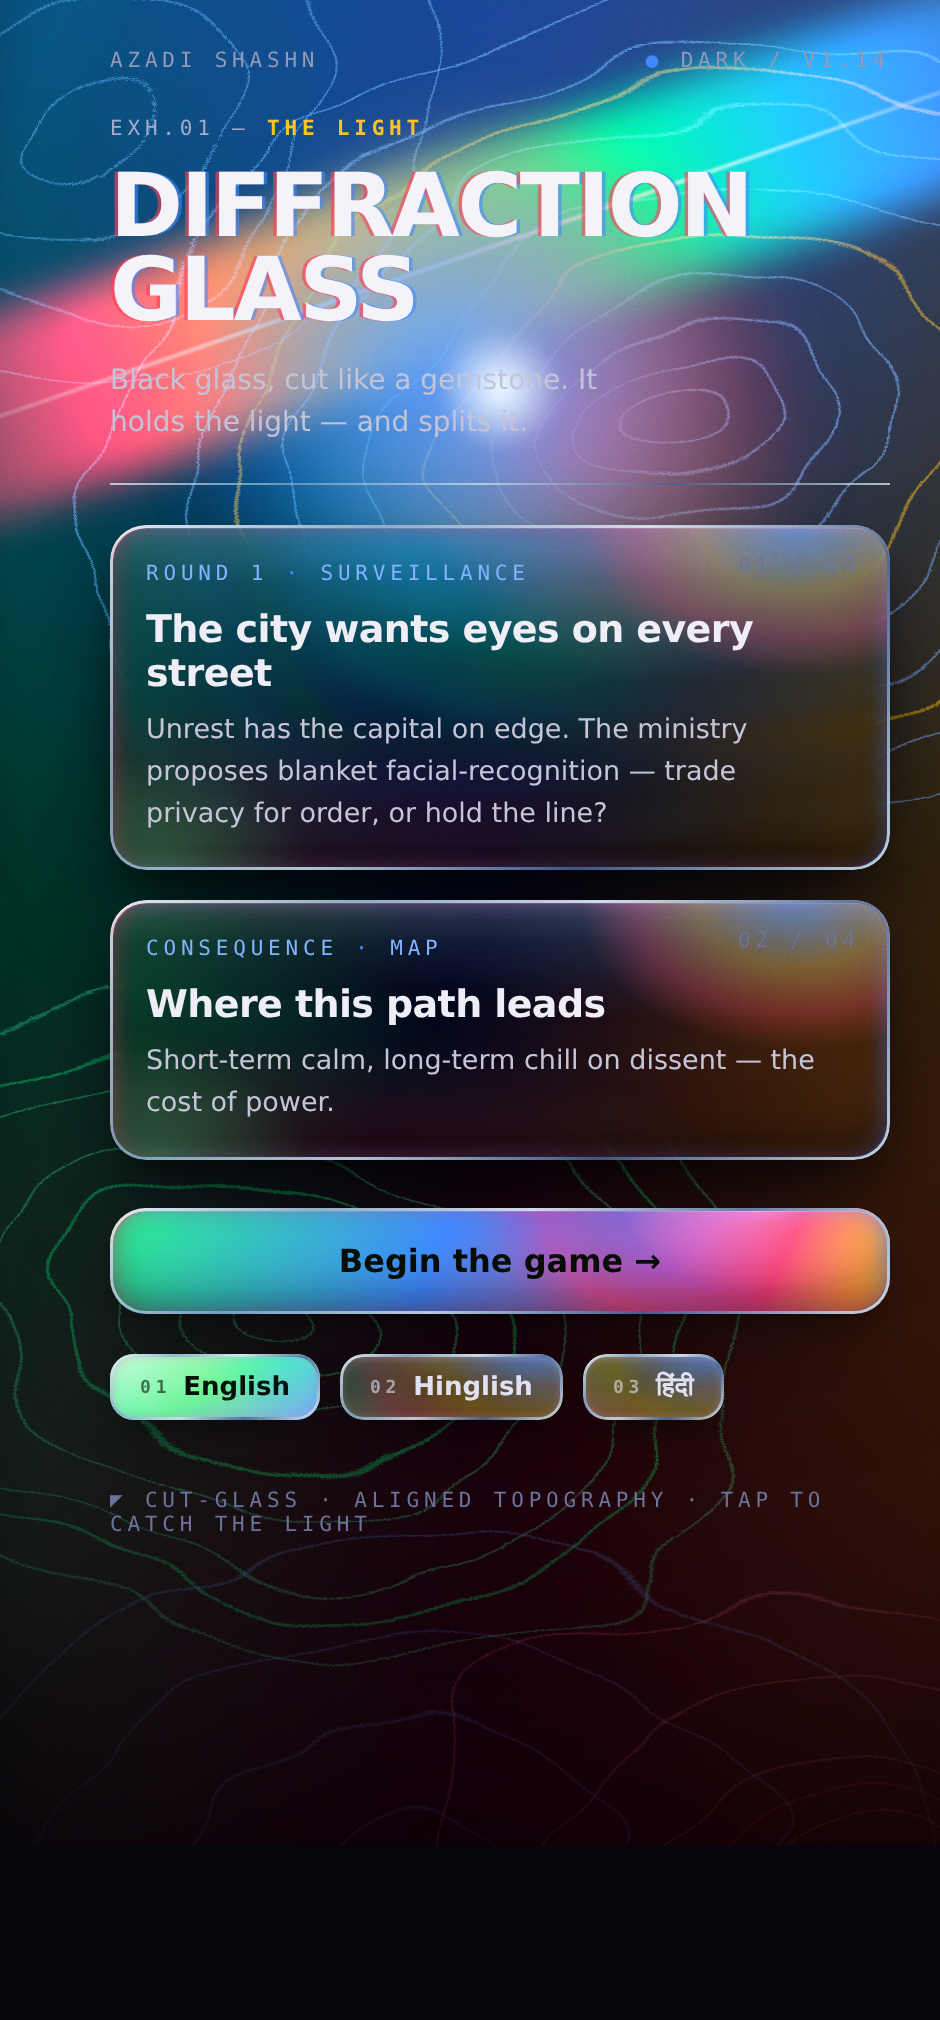
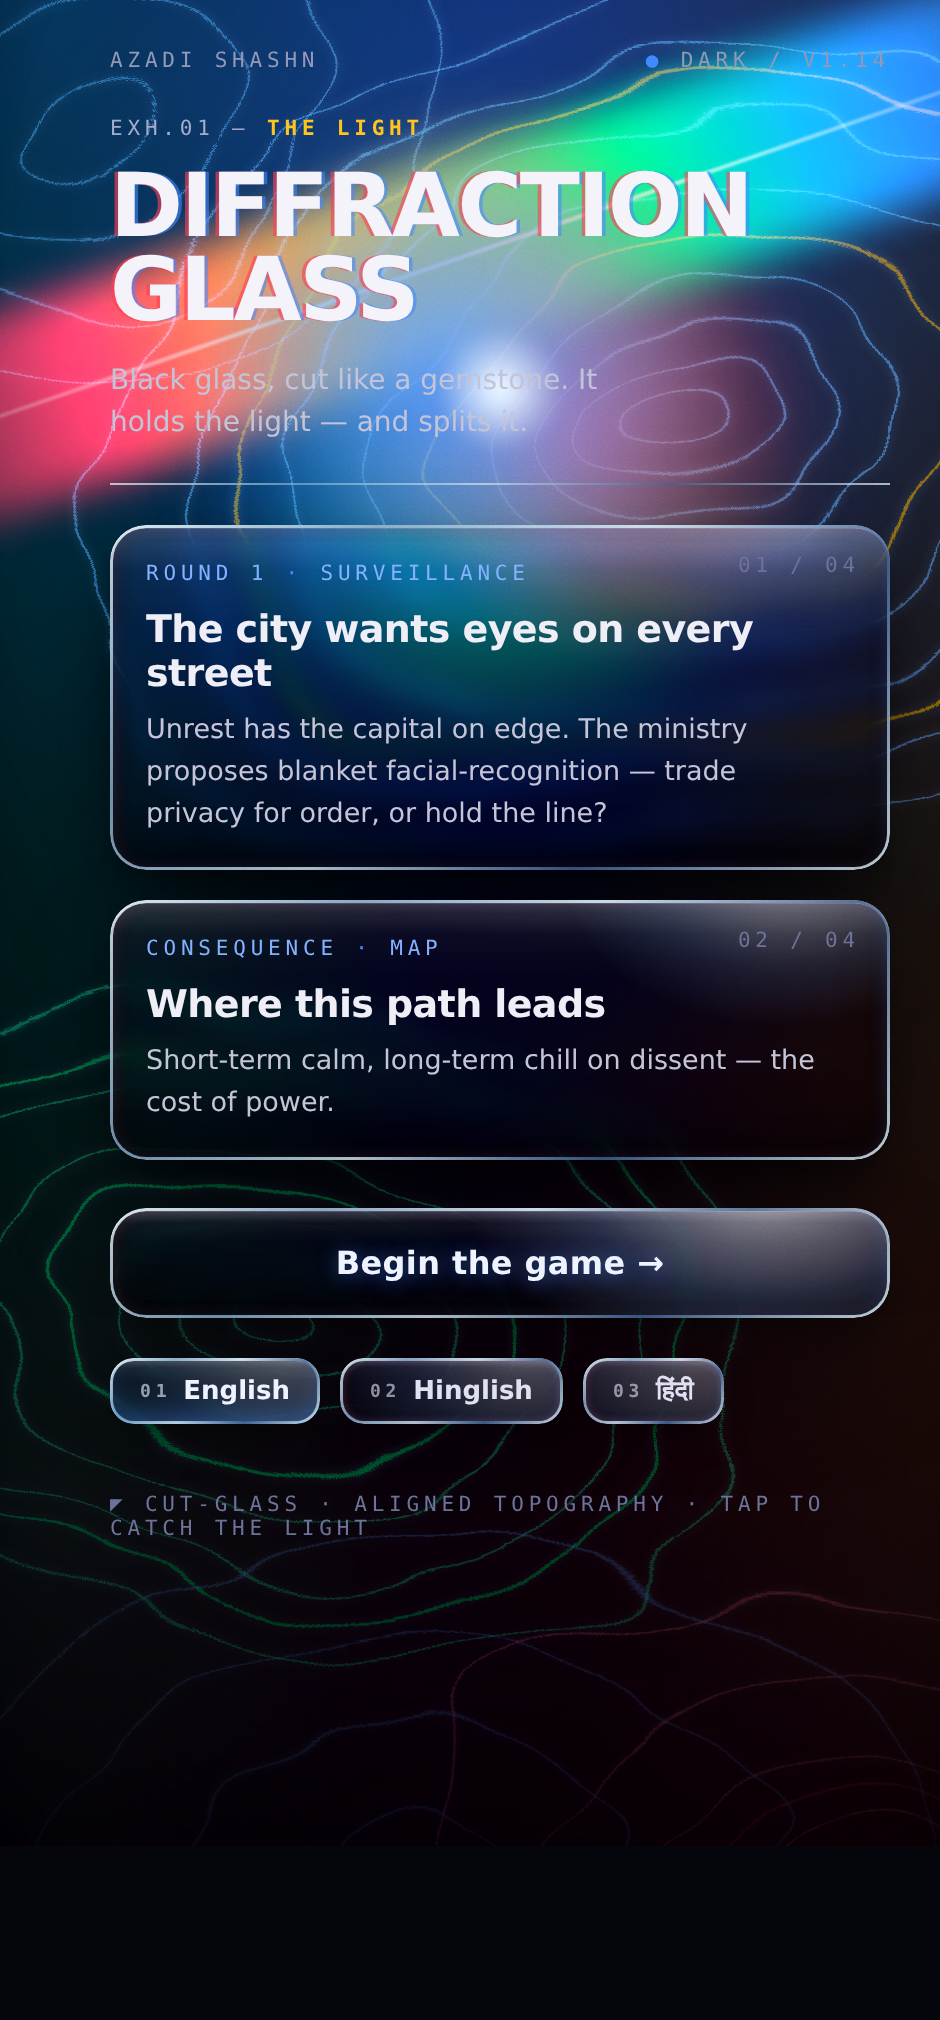
Diffraction preview: black glossy glass, colour only in the contour illustration
Feedback: coloured button fills fought the theme; wanted the contour illustration
to be the only vibrant highlight on black glossy glass buttons.
- Panels, CTA and chips are now black glossy glass: top-lit gloss sheen, hairline
  edge, deep near-black body, no ideology colour-fill wash. Text sits on true
  black glass; the CTA and chips use white type, the active chip a brighter gloss
  + blue under-glow instead of a colour fill.
- Colour now lives only in the contour illustration: contours carry a neon glow
  and read vibrantly through/across the panes as the highlight. Pulled the
  colour-wash mesh back so it is specifically the lines that pop, not a smear;
  panel backdrop tuned so the glowing contours punch through the black glass.

Design preview only — no app code changes.

Claude-Session: https://claude.ai/code/session_01FygEfTk57dQcPns1WQqt6E

diff --git a/design/diffraction-preview.html b/design/diffraction-preview.html
@@ -22,9 +22,9 @@
   .bg{position:fixed;inset:0;z-index:0;pointer-events:none;overflow:hidden;filter:saturate(1.35) contrast(1.06)}
   .base{position:absolute;inset:0;background:radial-gradient(120% 80% at 50% 2%, #0c1230 0%, #05081a 44%, #010209 100%)}
   .mesh{position:absolute;inset:-8%;background:
-      linear-gradient(180deg,rgba(63,134,255,.36),transparent 46%,rgba(255,59,82,.28)),
-      linear-gradient(90deg,rgba(42,240,138,.28),transparent 48%,rgba(255,194,30,.24));
-    filter:blur(30px);mix-blend-mode:screen}
+      linear-gradient(180deg,rgba(63,134,255,.22),transparent 48%,rgba(255,59,82,.16)),
+      linear-gradient(90deg,rgba(42,240,138,.16),transparent 50%,rgba(255,194,30,.14));
+    filter:blur(38px);mix-blend-mode:screen}
   /* laser beam — thin, sharp, bright core; the four ideology hues split across it */
   .streak{position:absolute;left:-30%;top:8%;width:160%;height:96px;transform:rotate(-19deg);mix-blend-mode:screen}
   .streak::before{content:"";position:absolute;inset:0;
@@ -39,6 +39,7 @@
     background:radial-gradient(circle at 38% 40%,rgba(63,134,255,.7),transparent 54%),radial-gradient(circle at 62% 52%,rgba(255,59,82,.6),transparent 54%),radial-gradient(circle at 52% 66%,rgba(42,240,138,.5),transparent 56%),radial-gradient(circle at 48% 30%,rgba(255,194,30,.46),transparent 52%);filter:blur(16px);mix-blend-mode:screen}
   /* topographic contour field — explicit, clearly visible; blended toward the light */
   .topo{position:absolute;inset:0;width:100%;height:100%;mix-blend-mode:screen;
+    filter:drop-shadow(0 0 2.4px rgba(150,190,255,.55)) saturate(1.25);
     -webkit-mask:radial-gradient(150% 108% at 50% 16%,#000,rgba(0,0,0,.86) 62%,rgba(0,0,0,.4) 100%);
             mask:radial-gradient(150% 108% at 50% 16%,#000,rgba(0,0,0,.86) 62%,rgba(0,0,0,.4) 100%)}
   /* depth: directional relief shades the terrain (lit near the orb, dark far) so
@@ -63,26 +64,26 @@
   .rule{height:1px;margin:18px 0 20px;background:var(--metal);opacity:.7}
 
   .glass{position:relative;isolation:isolate;overflow:hidden;border-radius:18px;
-    /* convex face sheen (top-lit) + controlled ideology tints + a darker glass body so
-       the interior reads clean and text sits on real dark glass, not a rainbow smear */
-    background:linear-gradient(180deg,rgba(255,255,255,.14),rgba(255,255,255,.03) 16%,transparent 34%,rgba(0,0,0,.22)),
-      radial-gradient(150% 120% at 84% -8%,rgba(63,134,255,.3),transparent 46%),
-      radial-gradient(150% 120% at 8% 108%,rgba(255,59,82,.24),transparent 48%),
-      linear-gradient(120deg,rgba(42,240,138,.16),transparent 42%,rgba(255,194,30,.16)),rgba(6,9,18,.42);
-    backdrop-filter:blur(7px) saturate(1.7) brightness(1.22) hue-rotate(-4deg) contrast(1.08);
-    -webkit-backdrop-filter:blur(7px) saturate(1.7) brightness(1.22) hue-rotate(-4deg) contrast(1.08);
+    /* BLACK glossy glass — no colour wash; the vibrant ideology colour comes only
+       from the contour illustration reading through the pane. Just a top-lit gloss
+       sheen, a faint corner specular, and a deep near-black body. */
+    background:linear-gradient(180deg,rgba(255,255,255,.17),rgba(255,255,255,.03) 13%,transparent 30%,rgba(0,0,0,.34)),
+      radial-gradient(120% 74% at 82% -8%,rgba(214,226,255,.09),transparent 42%),
+      rgba(4,6,13,.40);
+    backdrop-filter:blur(7px) saturate(1.8) brightness(1.42) contrast(1.06);
+    -webkit-backdrop-filter:blur(7px) saturate(1.8) brightness(1.42) contrast(1.06);
     box-shadow:
-      0 28px 60px -16px rgba(0,0,0,.75),          /* cast elevation shadow */
-      0 10px 22px -8px rgba(0,0,0,.6),             /* tight contact shadow */
+      0 30px 62px -16px rgba(0,0,0,.78),          /* cast elevation shadow */
+      0 10px 22px -8px rgba(0,0,0,.62),            /* tight contact shadow */
       inset 0 1.6px 0 rgba(255,255,255,.5),        /* top lip catching the light */
-      inset 0 -16px 30px -12px rgba(0,0,0,.55),    /* bottom thickness / inner shade */
-      inset 3px 0 11px rgba(255,59,82,.34),inset -3px 0 11px rgba(63,134,255,.4),
-      inset 1.5px 1.5px 0 rgba(255,59,82,.5),inset -1.5px -1.5px 0 rgba(63,134,255,.46)}
+      inset 0 -18px 32px -13px rgba(0,0,0,.6),     /* bottom thickness / inner shade */
+      inset 0 0 0 1px rgba(255,255,255,.07),       /* fine glass hairline */
+      inset 2px 0 9px rgba(255,59,82,.16),inset -2px 0 9px rgba(63,134,255,.18)}
   .glass::before{content:"";position:absolute;inset:0;border-radius:inherit;padding:1.5px;background:var(--metal);
     -webkit-mask:linear-gradient(#000 0 0) content-box,linear-gradient(#000 0 0);-webkit-mask-composite:xor;mask-composite:exclude;z-index:5;opacity:.8}
   .glass::after{content:"";position:absolute;inset:0;border-radius:inherit;z-index:4;pointer-events:none;
-    background:radial-gradient(150px 104px at 88% 0%,rgba(63,134,255,.72),rgba(255,194,30,.42) 32%,rgba(255,59,82,.36) 54%,transparent 72%),
-      radial-gradient(120px 90px at 6% 100%,rgba(42,240,138,.36),transparent 62%);mix-blend-mode:screen;opacity:.72}
+    background:radial-gradient(150px 96px at 86% -4%,rgba(226,236,255,.42),rgba(120,176,255,.18) 42%,transparent 70%);
+    mix-blend-mode:screen;opacity:.7}
 
   .card{padding:18px}
   .card + .card{margin-top:15px}
@@ -92,17 +93,21 @@
   .card h3{margin:11px 0 7px;font-size:19px;letter-spacing:-.3px;max-width:23ch;position:relative;z-index:6}
   .card p{margin:0;font-size:13.5px;line-height:1.55;color:#c3c3d6;max-width:40ch;position:relative;z-index:6}
 
-  .cta{display:flex;align-items:center;justify-content:center;width:100%;margin:24px 0 10px;padding:17px;
-    font:inherit;font-weight:700;font-size:16px;color:#050c04;border:0;border-radius:18px;
-    background:linear-gradient(115deg,#2af08a,#3f86ff 42%,#ff3b52 84%,#ffc21e)}
-  .cta::after{background:radial-gradient(180px 104px at 84% 0%,rgba(255,255,255,.85),rgba(63,134,255,.5) 40%,rgba(255,59,82,.38) 62%,transparent 80%);mix-blend-mode:overlay;opacity:.9}
-  .cta span{position:relative;z-index:6}
+  .cta{display:flex;align-items:center;justify-content:center;width:100%;margin:24px 0 10px;padding:18px;
+    font:inherit;font-weight:700;font-size:16px;letter-spacing:.2px;color:#eef3ff;border:0;border-radius:18px;
+    background:linear-gradient(180deg,rgba(255,255,255,.22),rgba(255,255,255,.04) 14%,transparent 32%,rgba(0,0,0,.42)),
+      rgba(5,7,15,.5)}
+  .cta::after{background:radial-gradient(200px 108px at 84% -6%,rgba(238,244,255,.6),rgba(120,176,255,.24) 44%,transparent 74%);mix-blend-mode:screen;opacity:.85}
+  .cta span{position:relative;z-index:6;text-shadow:0 1px 10px rgba(63,134,255,.5)}
 
   .chips{display:flex;gap:10px;margin:20px 0 6px}
   .chip{display:flex;align-items:center;padding:9px 15px;border-radius:12px;font-size:13px;font-weight:600;color:#e0e0f2;
     box-shadow:0 8px 18px -6px rgba(0,0,0,.6),inset 0 1.2px 0 rgba(255,255,255,.42),
       inset 1px 0 6px rgba(255,59,82,.28),inset -1px 0 6px rgba(63,134,255,.3)}
-  .chip.on{color:#04120a;background:linear-gradient(150deg,#b6ffd6,#2af08a 50%,#3f86ff)}
+  .chip.on{color:#eef3ff;
+    background:linear-gradient(180deg,rgba(255,255,255,.24),rgba(255,255,255,.05) 15%,transparent 34%,rgba(0,0,0,.28)),rgba(8,11,22,.55);
+    box-shadow:0 9px 20px -6px rgba(0,0,0,.62),inset 0 1.5px 0 rgba(255,255,255,.6),
+      inset 0 -8px 16px -6px rgba(63,134,255,.55),inset 0 0 0 1px rgba(120,176,255,.4)}
   .chip .mono{font-size:9px;opacity:.6;margin-right:6px;position:relative;z-index:6}
   .chip b{position:relative;z-index:6;font-weight:600}
   .foot{margin-top:34px;color:#6a6f95}
